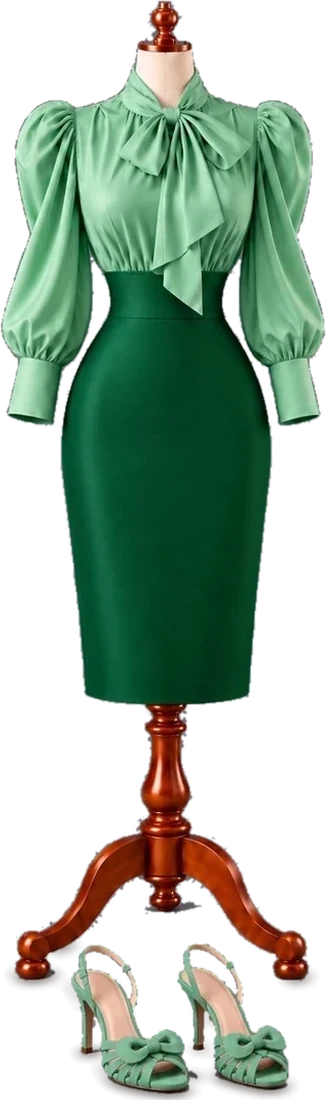
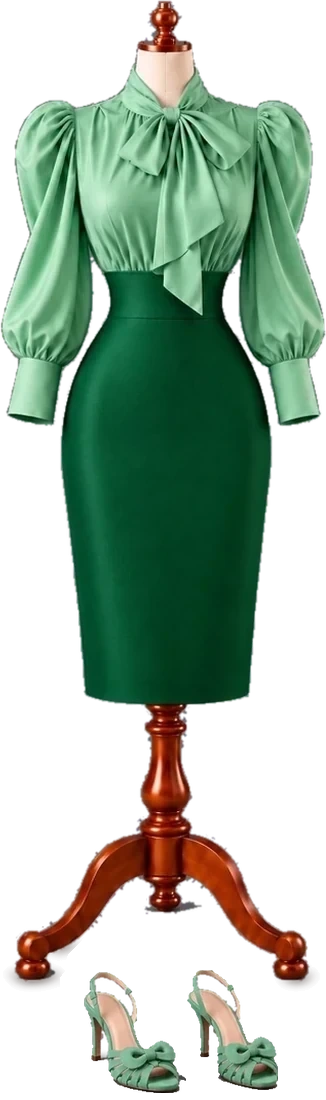
Lady: fünf Kleider aussortiert, Schuhe auf Größe 38 bei 1,70 m angepasst (2.2.4)

Changed region(s): [[0.2147, 0.8345, 0.8896, 1.0]]

diff --git a/index.html b/index.html
@@ -2337,7 +2337,7 @@ html.theme-retreat .lib-arrow{ background:rgba(248,241,229,0.92); color:var(--rt
 
 <script>
 /* Bump on every published update, so it's visible at a glance whether the newest version is loaded. */
-const APP_VERSION = '2.2.3';
+const APP_VERSION = '2.2.4';
 /* Design (since 1.80.0, see the small script in <head>): in "Business" (BIZ) the gold paper icons are swapped for plain line
    icons (img/icons-rl/*.svg) wherever they appear – also in everything drawn later – so the rest of the code stays as it is. */
 // A Lady's Conservatory (1.84.0, named so since 1.86.1; key 'retreat' and RETREAT stay): light, cream and forest green; until its own pictures come it uses those of A Gentleman's Study (with the
@@ -8057,8 +8057,9 @@ function ladyDressKind(now){
   if(is(49) || is(50)) return 'pentecost';
   // everyday: one outfit each day, in turn. Since 1.99.0 by season (wish of the user): short sleeves or none in summer, long sleeves in
   // autumn and winter, in spring both. The feast-day dresses above stay as they are. The bow blouse now with green slingbacks.
-  const SUMMER = ['burgundy', 'blouse-green', 'red-sleeveless', 'blouse-navy2', 'embroidered-white', 'carpet-halter']; // 28.10.2026: new blouse outfits, the pink one is gone
-  const WINTER = ['bow-slingback', 'red-cardigan', 'paisley-green', 'carpet-sweater', 'embroidered-cardigan', 'military', 'sailor-jeans'];
+  // 1.11.2026 (wish of the user): out are the red dress with cardigan, green paisley, carpet skirt with sweater, red sleeveless and the carpet halter
+  const SUMMER = ['burgundy', 'blouse-green', 'blouse-navy2', 'embroidered-white']; // 28.10.2026: new blouse outfits, the pink one is gone
+  const WINTER = ['bow-slingback', 'embroidered-cardigan', 'military', 'sailor-jeans'];
   const sn = roomSeason(now), list = sn === 'summer' ? SUMMER : sn === 'spring' ? SUMMER.concat(WINTER) : WINTER;
   return list[Math.floor(Date.UTC(now.getFullYear(), m, d) / 864e5) % list.length];
 }

diff --git a/CLAUDE.md b/CLAUDE.md
@@ -127,7 +127,7 @@ Der Nutzer ist kein Entwickler. Erkläre Schritte einfach und auf Deutsch.
 - Veröffentlicht über **GitHub Pages** aus diesem Repository (Branch `main`, Ordner `/`):
   https://k9vk58y99f-max.github.io/k9vk58y99f-max.github.io-ewolfe-app-/
 - Ein Commit + Push auf `main` ist die Veröffentlichung; nach 1–2 Minuten ist es live.
-- Bei jeder Änderung `APP_VERSION` erhöhen (aktuell `2.2.3`) und `APP_BUILD` anpassen.
+- Bei jeder Änderung `APP_VERSION` erhöhen (aktuell `2.2.4`) und `APP_BUILD` anpassen.
   Die Version steht unten in der App.
 
 ## Neu seit 1.55.0 (iPad, Wischen, Tagebuch, Sticker, Impulskarten)
@@ -769,6 +769,15 @@ Vor jedem Push: Syntax prüfen und die betroffenen Abläufe testen. Daten des Nu
 - **2.2.3 (1.11.2026) Neue Ränge in A Lady's Conservatory (Wunsch des Nutzers):** `ladyRanks` = Die Suchende, Die Träumerin, Die Entdeckerin,
   Die Visionärin, Die Weise, Die Lichtgestalt (en: The Seeker, The Dreamer, The Explorer, The Visionary, The Sage, The Luminary); die Aufstiegs-Sätze
   `ladyUp` neu dazu geschrieben. Ersetzen Gast/Gärtnerin/Botanikerin/Kuratorin/Patronin/Ehrenpatronin von 1.86.8. Passt aufs Messingschild (`fit`).
+- **2.2.4 (1.11.2026) Lady-Kleider aussortiert, Schuhe in Größe (Wünsche des Nutzers):**
+  - Aus dem Wechsel (`ladyDressKind`): Rot mit Strickjacke, Paisley grün, Teppichrock mit Pullover, Rot ärmellos, Teppich-Neckholder (Bilder bleiben
+    im Ordner). Alltag jetzt je 4: Sommer `burgundy, blouse-green, blouse-navy2, embroidered-white`; Herbst/Winter `bow-slingback, embroidered-cardigan,
+    military, sailor-jeans`. Bow-Slingback (Nr. 1) und Pfingsten (Nr. 17) will der Nutzer neu machen (neue Bilder).
+  - **Schuhmaß:** Lady 1,70 m, Schuhgröße 38. Maßstab: Schulter bis Boden ≈ 140 cm ≈ 973 px → 6,95 px/cm (alle Kleiderbilder 1100 px hoch, gleicher
+    Aufbau). Ein Schuh 38 in dieser Ansicht ≈ 18 cm hoch (≈ 125 px), Stiefelette ≈ 150 px, Ballerina ≈ 95 px. Verkleinert: Schleifen-Slingbacks ×0,82,
+    Military-Stiefel ×0,9, grüne Budapester-Wedges ×0,81 (Schleifen bleiben ganz). Navy-Wedges (+7 %) und alle anderen (±5 %) unverändert.
+    Skript `shoescale.py` (GrabCut trennt Schuh und Mahagoni-Ständer, `WOODBG=1` wenn der Schuh nicht rot ist, `LACES=1` nimmt Schnürsenkel/Schleifen
+    mit, Füße darunter per `cv2.inpaint`), Kopie in `~/Desktop/eWolfe-Skripte/`. Übersicht nummeriert: `dresses.py` (ebenda).
 - **Noch offen (Datenschutz):** Speicher-Erinnerung (80 %/90 %), verschlüsseltes Backup + monatliche Erinnerung, IndexedDB statt localStorage, Fotos einzeln
   im Supabase-Speicher, Konto in der App löschen; Platzhalter der Datenschutzerklärung füllen und rechtlich prüfen lassen; AVV und SMTP bei Supabase.
 
